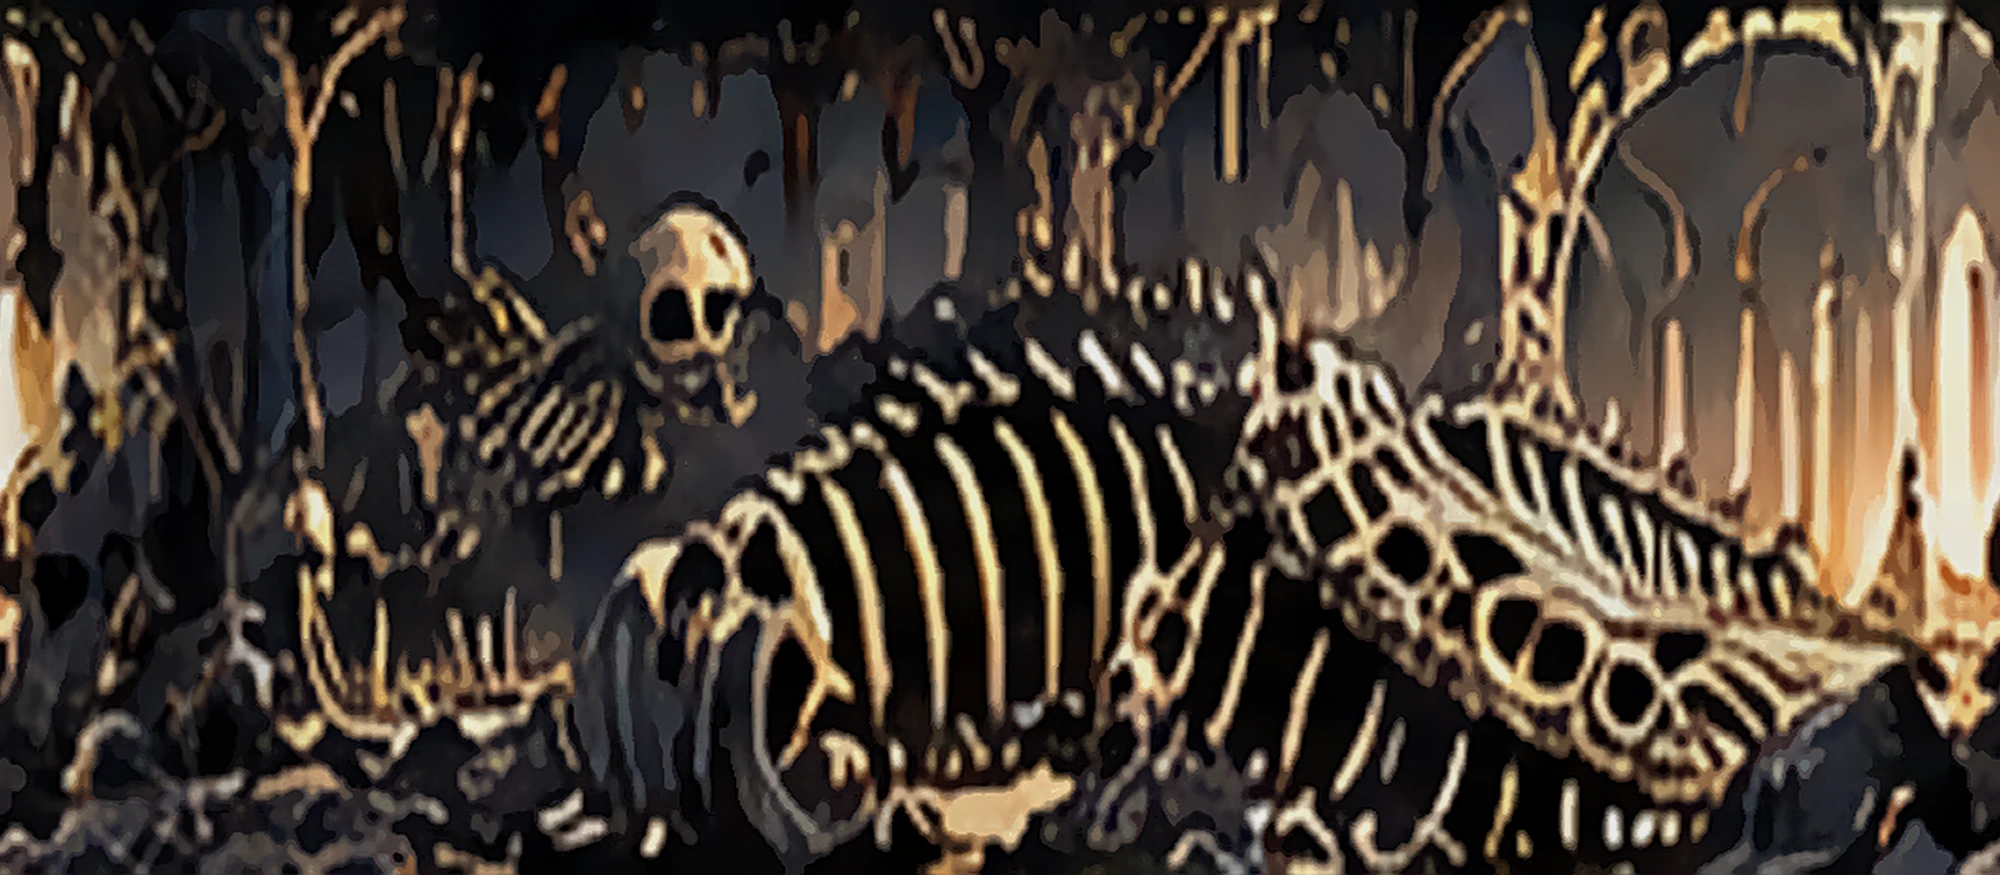
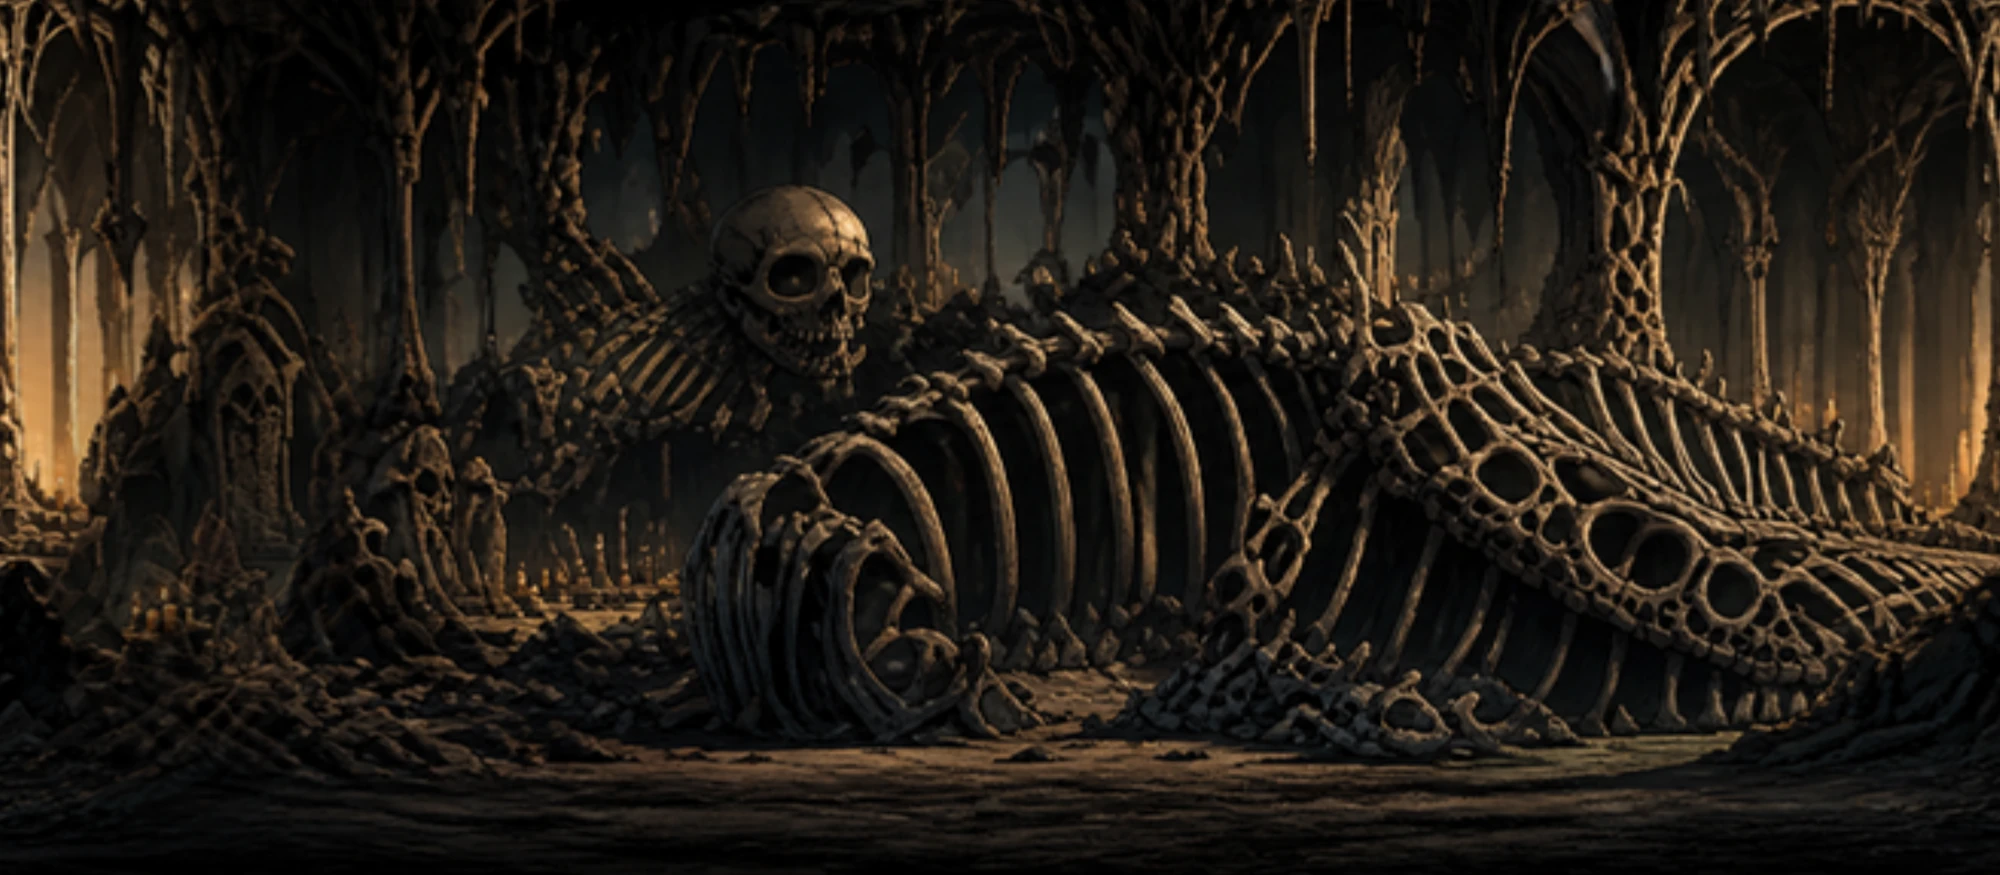
Detailed painted backdrops for 13 areas; painted floors for the village; painted floor and prop system

diff --git a/duskwell/js/art_painted_floors.js b/duskwell/js/art_painted_floors.js
@@ -1,0 +1,111 @@
+'use strict';
+// Painted floors: for every area listed in FLOOR_ART (js/floors_meta.js, made by tools/paint/floors.py) the rock of the rooms is
+// laid from a seamless painted texture of that area (art/floors/<theme>_fill.webp) and every walkable top, underside and one-way
+// ledge from its painted edge strip (art/floors/<theme>_top.webp), so the ground is painted in the same hand and palette as the
+// backdrop behind it. Until the pictures load (or for an area without them) the previous hook of the area draws the rock.
+const PaintedFloors = (() => {
+  const T = TILE, INK = '#030508';
+  const FILL_P = 256;                       // logical px covered by one copy of the fill texture
+  const TOP_H = 34;                         // logical px height of the painted top edge
+  const stats = { renders: 0, tops: 0, unders: 0, ledges: 0, theme: '' };
+  const meta = typeof FLOOR_ART !== 'undefined' ? FLOOR_ART : {};
+  const imgs = {};
+  const load = (t, k) => {
+    const key = t + '_' + k;
+    if (!imgs[key]) { const im = new Image(); im.onload = () => { if (typeof G !== 'undefined') G.tileCanvas = null; }; im.src = 'art/floors/' + key + '.webp'; imgs[key] = im; }
+    return imgs[key];
+  };
+  const ok = im => !!im && im.complete && im.naturalWidth > 0;
+  const has = t => !!meta[t] && ok(load(t, 'fill')) && ok(load(t, 'top'));
+
+  // a run of the painted edge from x0 to x1, its surface line at y; flip: hung upside down under an overhang
+  function edge(g, t, x0, x1, y, h, flip, alpha) {
+    const im = load(t, 'top'), m = meta[t], k = h / im.naturalHeight, P = im.naturalWidth * k;   // P: logical px of one copy
+    const top = y - m.surf * k;                                    // the strip's own surface sits on the line
+    g.save(); g.beginPath(); g.rect(x0 - 3, flip ? y - h * 0.15 : top - 2, x1 - x0 + 6, h * 1.2); g.clip();
+    if (alpha != null) g.globalAlpha *= alpha;
+    let x = Math.floor((x0 - 3) / P) * P;
+    for (; x < x1 + 3; x += P) {
+      if (flip) { g.save(); g.translate(0, 2 * y); g.scale(1, -1); g.drawImage(im, x, top, P + 0.5, h); g.restore(); }
+      else g.drawImage(im, x, top, P + 0.5, h);
+    }
+    g.restore();
+  }
+  // the rock of a room
+  function solid(g, L, th, isS, seed) {
+    const t = L.def.theme, im = load(t, 'fill'), k = im.naturalWidth / FILL_P;
+    stats.renders++; stats.theme = t; stats.tops = stats.unders = stats.ledges = 0;
+    g.imageSmoothingEnabled = true; g.imageSmoothingQuality = 'high';
+    for (let y = 0; y < L.h; y++) for (let x = 0; x < L.w; x++) {
+      if (L.get(x, y) !== T_SOLID) continue;
+      const px = x * T, py = y * T, sx = (px % FILL_P) * k, sy = (py % FILL_P) * k;
+      g.drawImage(im, sx, sy, T * k, T * k, px - 0.25, py - 0.25, T + 0.5, T + 0.5);
+      let air = 0;
+      for (let j = -2; j <= 2; j++) for (let i = -2; i <= 2; i++) if (!isS(x + i, y + j)) air++;
+      const a = 0.45 * (1 - clamp(air / 10, 0, 1));                  // deep rock lies darker, the rock at an edge keeps its colour
+      if (a > 0.01) { g.fillStyle = 'rgba(2,3,10,' + a.toFixed(3) + ')'; g.fillRect(px, py, T, T); }
+    }
+    // sides: an ink edge with a thin light line of the area inside it
+    const hi = meta[t].hi;
+    for (let y = 0; y < L.h; y++) for (let x = 0; x < L.w; x++) {
+      if (L.get(x, y) !== T_SOLID) continue;
+      const px = x * T, py = y * T, eT = !isS(x, y - 1), eL = !isS(x - 1, y), eR = !isS(x + 1, y), y0 = py + (eT ? 8 : 0);
+      for (const [on, ex, dir] of [[eL, px, 1], [eR, px + T, -1]]) {
+        if (!on) continue;
+        g.fillStyle = INK; g.fillRect(dir > 0 ? ex - 2.5 : ex - 1.5, y0, 4, py + T - y0);
+        g.fillStyle = hi; g.globalAlpha = 0.3; g.fillRect(dir > 0 ? ex + 1.5 : ex - 3.1, y0, 1.6, py + T - y0); g.globalAlpha = 1;
+      }
+    }
+    // undersides: the painted edge hung upside down, darker
+    for (let y = 0; y < L.h; y++) for (let x = 0; x < L.w; x++) {
+      if (L.get(x, y) !== T_SOLID || isS(x, y + 1)) continue;
+      let x1 = x; while (x1 + 1 < L.w && L.get(x1 + 1, y) === T_SOLID && !isS(x1 + 1, y + 1)) x1++;
+      const yb = (y + 1) * T;
+      edge(g, t, x * T, (x1 + 1) * T, yb, TOP_H * 0.8, true, 0.95);
+      g.fillStyle = 'rgba(0,0,0,0.35)'; g.fillRect(x * T, yb - 8, (x1 - x + 1) * T, 8);
+      stats.unders++; x = x1;
+    }
+    // tops: the painted edge along every free-standing floor
+    for (let y = 0; y < L.h; y++) for (let x = 0; x < L.w; x++) {
+      if (L.get(x, y) !== T_SOLID || isS(x, y - 1)) continue;
+      let x1 = x; while (x1 + 1 < L.w && L.get(x1 + 1, y) === T_SOLID && !isS(x1 + 1, y - 1)) x1++;
+      edge(g, t, x * T, (x1 + 1) * T, y * T + 3, TOP_H, false);
+      stats.tops++; x = x1;
+    }
+    // slippery ice keeps its glaze
+    for (let y = 0; y < L.h; y++) for (let x = 0; x < L.w; x++) if (L.get(x, y) === T_SOLID && L.isIce && L.isIce(x, y)) {
+      g.fillStyle = 'rgba(190,235,255,0.35)'; g.fillRect(x * T, y * T, T, T);
+    }
+    return true;
+  }
+  // one-way ledges: a slab of the rock under a run of the painted edge
+  function plats(g, L) {
+    const t = L.def.theme, im = load(t, 'fill'), k = im.naturalWidth / FILL_P;
+    for (let y = 0; y < L.h; y++) for (let x = 0; x < L.w; x++) {
+      if (L.get(x, y) !== T_ONEWAY) continue;
+      let x1 = x; while (x1 + 1 < L.w && L.get(x1 + 1, y) === T_ONEWAY) x1++;
+      const x0p = x * T, x1p = (x1 + 1) * T, py = y * T;
+      g.save(); g.beginPath(); g.roundRect(x0p - 2, py + 2, x1p - x0p + 4, 12, 4); g.clip();
+      for (let px = x0p - 2; px < x1p + 2; px += T) g.drawImage(im, (((px % FILL_P) + FILL_P) % FILL_P) * k, ((py % FILL_P) + FILL_P) % FILL_P * k, T * k, 12 * k, px, py + 2, T + 0.5, 12);
+      g.fillStyle = 'rgba(0,0,0,0.3)'; g.fillRect(x0p - 2, py + 9, x1p - x0p + 4, 5);
+      g.restore();
+      g.strokeStyle = INK; g.lineWidth = 2.2; g.beginPath(); g.roundRect(x0p - 2, py + 2, x1p - x0p + 4, 12, 4); g.stroke();
+      edge(g, t, x0p - 2, x1p + 2, py + 3, TOP_H * 0.62, false);
+      stats.ledges++; x = x1;
+    }
+    return true;
+  }
+  // wrap the hook of every area that has painted floors: the painted rock once loaded, the old drawing until then;
+  // its scenery (props, hangings) stays as it was
+  for (const t of Object.keys(meta)) {
+    const prev = Art.tileHooks[t];
+    load(t, 'fill'); load(t, 'top');
+    Art.tileHooks[t] = {
+      ready: () => has(t) || !!(prev && prev.ready()),
+      solid: (g, L, th, isS, seed) => has(t) ? solid(g, L, th, isS, seed) : !!(prev && prev.solid(g, L, th, isS, seed)),
+      plats: (g, L, th) => has(t) ? plats(g, L, th) : !!(prev && prev.plats(g, L, th)),
+      scenery: prev && prev.scenery ? prev.scenery : undefined,
+    };
+  }
+  return { stats, has, themes: Object.keys(meta) };
+})();

diff --git a/duskwell/js/art_props_hd.js b/duskwell/js/art_props_hd.js
@@ -1,0 +1,63 @@
+'use strict';
+// Painted props in place of the old shapes drawn in code: the village houses, street lamps and well, the stone pillars of the
+// crossroads and of the palace, and the cogs and chimneys of the foundry (art/props_hd/<name>.webp, cut by tools/paint/floors.py,
+// listed in PROPS_HD). An object whose picture has not loaded (or does not exist) is drawn as before.
+(() => {
+  const list = typeof PROPS_HD !== 'undefined' ? PROPS_HD : {};
+  const imgs = {};
+  for (const n of Object.keys(list)) { const im = new Image(); im.src = 'art/props_hd/' + n + '.webp'; imgs[n] = im; }
+  const ok = n => !!imgs[n] && imgs[n].complete && imgs[n].naturalWidth > 0;
+  // draw picture n with its bottom centre at (cx, by), h px tall (or w px wide when h is null)
+  function put(g, n, cx, by, w, h, alpha) {
+    const im = imgs[n], k = h != null ? h / im.naturalHeight : w / im.naturalWidth, dw = im.naturalWidth * k, dh = im.naturalHeight * k;
+    g.save(); if (alpha != null) g.globalAlpha *= alpha; g.imageSmoothingEnabled = true; g.imageSmoothingQuality = 'high';
+    g.drawImage(im, cx - dw / 2, by - dh, dw, dh); g.restore();
+    return [dw, dh];
+  }
+  const oldDecor = Art.drawDecor;
+  Art.drawDecor = function (g, d, t, th) {
+    const px = d.x * TILE, py = d.y * TILE + TILE;
+    if (d.type === 'house') {
+      const n = Math.floor(d.x) % 2 === 0 ? 'prop_house_a' : 'prop_house_b', alt = n === 'prop_house_a' ? 'prop_house_b' : 'prop_house_a';
+      const use = ok(n) ? n : ok(alt) ? alt : null;
+      if (use) {
+        const w = d.w * TILE;
+        put(g, use, px + w / 2, py + 2, w + 30, null);
+        if (Math.floor(d.x) % 2 === 0) bloom(g, px + w / 2, py - d.h * TILE * 0.55, 80, '#ffb050', 0.12);
+        return;
+      }
+    } else if (d.type === 'lamp' && ok('prop_lamp')) {
+      const fl = 0.85 + 0.15 * Math.sin(t * 7 + d.x);
+      bloom(g, px + 16, py - 104, 130 * fl, th.glow, 0.32);
+      put(g, 'prop_lamp', px + 16, py + 2, null, 128);
+      return;
+    } else if (d.type === 'well' && ok('prop_well')) {
+      const w = d.w * TILE;
+      put(g, 'prop_well', px + w / 2, py + 4, w + 64, null);
+      const gr = g.createLinearGradient(0, py, 0, py + 140); gr.addColorStop(0, 'rgba(140,200,255,0.25)'); gr.addColorStop(1, 'rgba(140,200,255,0)');
+      g.fillStyle = gr; g.fillRect(px, py, w, 140);
+      return;
+    } else if (d.type === 'pillar') {
+      const n = th && th.name === 'throne' ? 'prop_pillar_throne' : 'prop_pillar_cave';
+      if (ok(n)) { put(g, n, px + 16, py + 4, null, d.h * TILE + 8, 0.92); return; }
+    }
+    oldDecor(g, d, t, th);
+  };
+  const oldGear = Art.drawGear;
+  Art.drawGear = function (g, d, t, th) {
+    if (!ok('prop_gear')) return oldGear(g, d, t, th);
+    const x = d.x * TILE + 16, y = d.y * TILE + 16, r = (d.r || 3) * TILE + 12, dir = d.dir || 1, im = imgs.prop_gear;
+    g.save(); g.translate(x, y); g.rotate(t * 0.25 * dir * (90 / r)); g.globalAlpha *= d.a || 0.75;
+    g.imageSmoothingEnabled = true; g.drawImage(im, -r, -r, 2 * r, 2 * r);
+    g.restore();
+  };
+  const oldChimney = Art.drawChimney;
+  Art.drawChimney = function (g, d, t, th) {
+    if (!ok('prop_chimney')) return oldChimney(g, d, t, th);
+    const x = d.x * TILE, base = d.y * TILE + TILE, h = (d.h || 8) * TILE;
+    const [w] = put(g, 'prop_chimney', x + 23, base + 4, null, h + 8, 0.95);
+    const k = 0.6 + 0.4 * Math.sin(t * 2 + d.x);
+    bloom(g, x + 23, base - h + 10, 60 * k + w * 0.2, th.glow, 0.2);
+  };
+  Art.propsHd = { ok, names: Object.keys(list) };
+})();

diff --git a/duskwell/index.html b/duskwell/index.html
@@ -135,10 +135,13 @@ canvas{display:block;background:var(--stage);border-radius:4px;box-shadow:0 0 40
 <script src="js/world_end.js"></script>
 <script src="js/world_hard.js"></script>
 <script src="js/world_paintings.js"></script>
+<script src="js/sky_meta.js"></script>
 <script src="js/art_world.js"></script>
 <script src="js/art_detail.js"></script>
 <script src="js/art_sprites.js"></script>
 <script src="js/art_mech.js"></script>
+<script src="js/props_hd_meta.js"></script>
+<script src="js/art_props_hd.js"></script>
 <script src="js/sprite_meta.js"></script>
 <script src="js/lumen.js"></script>
 <script src="js/pixel.js"></script>
@@ -190,6 +193,8 @@ canvas{display:block;background:var(--stage);border-radius:4px;box-shadow:0 0 40
 <script src="js/art_world_hd.js"></script>
 <script src="js/moss_meta.js"></script>
 <script src="js/art_moss.js"></script>
+<script src="js/floors_meta.js"></script>
+<script src="js/art_painted_floors.js"></script>
 <script src="js/setpiece_meta.js"></script>
 <script src="js/art_setpieces.js"></script>
 <script src="js/hero_frames_meta.js"></script>

diff --git a/duskwell/js/art_world.js b/duskwell/js/art_world.js
@@ -445,6 +445,8 @@ const CONCEPT_ALPHA = { default: [1, 1, 1, 1], town: [1, 1, 1, 1], townb: [1, 0,
 const PAINTING_BG = ['lunar_moon', 'lunar_hall', 'lunar_dome', 'mirror_city', 'mirror_hall'];
 for (const k of PAINTING_BG) CONCEPT_ALPHA[k] = [1, 0, 0, 0];
 for (const k of ['cave', 'moss', 'spore', 'aqueduct', 'crystal', 'webbed', 'foundry', 'throne', 'frost', 'ember', 'storm', 'mirror', 'bone', 'lunar']) CONCEPT_ALPHA[k] = CONCEPT_ALPHA.default;
+// areas repainted as one detailed picture (tools/paint/floors.py): the picture alone, without the old cut-out layers
+if (typeof SKY_HD !== 'undefined') for (const k of SKY_HD) CONCEPT_ALPHA[k] = [1, 0, 0, 0];
 // backdrop sets that belong to no theme of their own: the afternoon village behind the roads out of the town
 const EXTRA_BG = { townb: true };
 for (const k of PAINTING_BG) EXTRA_BG[k] = true;

diff --git a/duskwell/js/floors_meta.js b/duskwell/js/floors_meta.js
@@ -1,0 +1,4 @@
+'use strict';
+// made by tools/paint/floors.py: the areas whose floors are painted (art/floors/<theme>_fill.webp, _top.webp);
+// surf: row of the top strip (of its 160) where one walks, hi: a light colour of the rock
+const FLOOR_ART = {"town": {"hi": "#665646", "surf": 7}};

diff --git a/duskwell/js/sky_meta.js b/duskwell/js/sky_meta.js
@@ -1,0 +1,3 @@
+'use strict';
+// made by tools/paint/floors.py: areas whose backdrop is one detailed painting (art/bg/<theme>/sky.webp)
+const SKY_HD = ["aqueduct", "bone", "crystal", "ember", "foundry", "frost", "lunar", "mirror", "moss", "spore", "storm", "throne", "webbed"];

diff --git a/duskwell/js/props_hd_meta.js b/duskwell/js/props_hd_meta.js
@@ -1,0 +1,3 @@
+'use strict';
+// made by tools/paint/floors.py: painted props in art/props_hd/<name>.webp, [width, height]
+const PROPS_HD = {};

diff --git a/duskwell/tools/paint/floors.py b/duskwell/tools/paint/floors.py
@@ -1,0 +1,125 @@
+#!/usr/bin/env python3
+"""Turns the painted area pictures in art/source/areas_hd/ into game files:
+  <theme>_sky.png  -> art/bg/<theme>/sky.webp (2000x875, seamless left to right) and art/areas/<theme>.webp (960x400)
+  <theme>_fill.png -> art/floors/<theme>_fill.webp (512x512, seamless both ways)
+  <theme>_top.png  -> art/floors/<theme>_top.webp (the edge strip cut out of its grey ground, seamless left to right)
+and writes js/floors_meta.js: FLOOR_ART[theme] = {surf: row of the strip's surface, hi: light colour of the rock} and
+js/sky_meta.js: SKY_HD = [themes whose backdrop is one painting];
+  prop_<name>.png  -> art/props_hd/prop_<name>.webp (cut out of its grey ground) listed in js/props_hd_meta.js."""
+import glob, json, os
+import numpy as np
+from PIL import Image, ImageFilter
+HERE = os.path.dirname(os.path.abspath(__file__)); ROOT = os.path.join(HERE, '..', '..')
+SRC = os.path.join(ROOT, 'art', 'source', 'areas_hd')
+
+
+def seam_x(a, frac=0.18):
+    """make an image (H, W, C float) seamless left to right: cross-fade its two ends over frac of the width"""
+    h, w = a.shape[:2]; n = int(w * frac)
+    t = np.linspace(0, 1, n)[None, :, None]
+    left, right = a[:, :n], a[:, w - n:]
+    out = a[:, :w - n].copy()
+    out[:, :n] = right * (1 - t) + left * t
+    return out
+
+
+def seam_xy(a):
+    """seamless both ways: blend with a copy shifted by half, weighted toward the centre of each"""
+    h, w = a.shape[:2]
+    b = np.roll(np.roll(a, h // 2, 0), w // 2, 1)
+    yy = np.abs(np.linspace(-1, 1, h))[:, None]; xx = np.abs(np.linspace(-1, 1, w))[None, :]
+    wa = np.clip(1.0 - np.maximum(yy, xx), 0, 1) ** 0.7       # 1 in the middle, 0 at the edges
+    wb = np.roll(np.roll(wa, h // 2, 0), w // 2, 1)
+    m = (wa / (wa + wb + 1e-6))[..., None]
+    return a * m + b * (1 - m)
+
+
+def sky(theme, path):
+    im = Image.open(path).convert('RGB'); w, h = im.size
+    ch = int(round(w / (2000 / 875)))
+    y0 = max(0, (h - ch) // 2); im = im.crop((0, y0, w, y0 + ch))
+    a = seam_x(np.asarray(im, np.float32))
+    out = Image.fromarray(np.clip(a, 0, 255).astype(np.uint8)).resize((2000, 875), Image.LANCZOS)
+    d = os.path.join(ROOT, 'art', 'bg', theme); os.makedirs(d, exist_ok=True)
+    out.save(os.path.join(d, 'sky.webp'), quality=90, method=6)
+    out.resize((960, 420), Image.LANCZOS).crop((0, 10, 960, 410)).save(os.path.join(ROOT, 'art', 'areas', theme + '.webp'), quality=88, method=6)
+
+
+def fill(theme, path):
+    im = Image.open(path).convert('RGB'); w, h = im.size
+    m = int(min(w, h) * 0.06); im = im.crop((m, m, w - m, h - m))         # the very edge of a painting is often softer
+    a = seam_xy(np.asarray(im, np.float32))
+    out = Image.fromarray(np.clip(a, 0, 255).astype(np.uint8)).resize((512, 512), Image.LANCZOS)
+    out.save(os.path.join(ROOT, 'art', 'floors', theme + '_fill.webp'), quality=90, method=6)
+    px = np.asarray(out, np.float32).reshape(-1, 3); lum = px @ [0.3, 0.59, 0.11]
+    hi = px[lum >= np.percentile(lum, 92)].mean(0)
+    return '#%02x%02x%02x' % tuple(int(v) for v in hi)
+
+
+def top(theme, path):
+    im = Image.open(path).convert('RGB'); a = np.asarray(im, np.float32)
+    # the grey ground: the colour of the border of the picture
+    border = np.concatenate([a[:8].reshape(-1, 3), a[-8:].reshape(-1, 3)]); grey = np.median(border, 0)
+    d = np.sqrt(((a - grey) ** 2).sum(-1))
+    sat = a.max(-1) - a.min(-1)
+    alpha = np.clip((d - 14) / 26, 0, 1)
+    alpha[(d < 30) & (sat < 10)] = 0
+    al = Image.fromarray((alpha * 255).astype(np.uint8)).filter(ImageFilter.MedianFilter(5)).filter(ImageFilter.GaussianBlur(0.8))
+    alpha = np.asarray(al, np.float32) / 255
+    rows = np.where(alpha.mean(1) > 0.35)[0]
+    # the band of the strip: the longest run of full rows
+    runs, s = [], rows[0]
+    for i in range(1, len(rows)):
+        if rows[i] != rows[i - 1] + 1: runs.append((s, rows[i - 1])); s = rows[i]
+    runs.append((s, rows[-1])); r0, r1 = max(runs, key=lambda r: r[1] - r[0])
+    lo = np.where(alpha.mean(1) > 0.04)[0]
+    t0 = max(lo[lo <= r0].min() if (lo <= r0).any() else r0, r0 - (r1 - r0)); t1 = min(lo[lo >= r1].max(), r1 + (r1 - r0))
+    w = a.shape[1]; c0, c1 = int(w * 0.04), int(w * 0.96)                    # leave out the ragged ends
+    rgba = np.dstack([a, alpha * 255])[t0:t1 + 1, c0:c1]
+    rgba = seam_x(rgba)
+    surf = int(np.argmax(rgba[..., 3].mean(1) > 0.5 * 255))                   # first row that is mostly solid: the walking line
+    out = Image.fromarray(np.clip(rgba, 0, 255).astype(np.uint8), 'RGBA')
+    k = 160 / out.height; out = out.resize((max(1, int(out.width * k)), 160), Image.LANCZOS)
+    out.save(os.path.join(ROOT, 'art', 'floors', theme + '_top.webp'), quality=90, method=6, lossless=False)
+    return int(surf * k)
+
+
+def prop(name, path):
+    """an object painted on the grey ground: cut out, cropped to its outline"""
+    a = np.asarray(Image.open(path).convert('RGB'), np.float32)
+    border = np.concatenate([a[:8].reshape(-1, 3), a[-8:].reshape(-1, 3), a[:, :8].reshape(-1, 3), a[:, -8:].reshape(-1, 3)]); grey = np.median(border, 0)
+    d = np.sqrt(((a - grey) ** 2).sum(-1)); sat = a.max(-1) - a.min(-1)
+    alpha = np.clip((d - 14) / 26, 0, 1); alpha[(d < 30) & (sat < 10)] = 0
+    al = Image.fromarray((alpha * 255).astype(np.uint8)).filter(ImageFilter.MedianFilter(5)).filter(ImageFilter.GaussianBlur(0.8))
+    alpha = np.asarray(al, np.float32) / 255
+    ys, xs = np.where(alpha > 0.5); y0, y1, x0, x1 = ys.min(), ys.max() + 1, xs.min(), xs.max() + 1
+    out = Image.fromarray(np.dstack([a, alpha * 255]).astype(np.uint8), 'RGBA').crop((x0, y0, x1, y1))
+    k = min(1.0, 900 / max(out.size)); out = out.resize((max(1, int(out.width * k)), max(1, int(out.height * k))), Image.LANCZOS)
+    os.makedirs(os.path.join(ROOT, 'art', 'props_hd'), exist_ok=True)
+    out.save(os.path.join(ROOT, 'art', 'props_hd', name + '.webp'), quality=90, method=6)
+    return list(out.size)
+
+
+def main():
+    os.makedirs(os.path.join(ROOT, 'art', 'floors'), exist_ok=True)
+    meta_path = os.path.join(ROOT, 'js', 'floors_meta.js')
+    floors, skies = {}, []
+    for p in sorted(glob.glob(os.path.join(SRC, '*_sky.png'))):
+        t = os.path.basename(p)[:-8]; sky(t, p); skies.append(t); print('sky ', t)
+    for p in sorted(glob.glob(os.path.join(SRC, '*_fill.png'))):
+        t = os.path.basename(p)[:-9]; tp = os.path.join(SRC, t + '_top.png')
+        if not os.path.exists(tp): continue
+        hi = fill(t, p); surf = top(t, tp); floors[t] = {'surf': surf, 'hi': hi}; print('floor', t, floors[t])
+    props = {}
+    for p in sorted(glob.glob(os.path.join(SRC, 'prop_*.png'))):
+        n = os.path.basename(p)[:-4]; props[n] = prop(n, p); print('prop ', n, props[n])
+    open(os.path.join(ROOT, 'js', 'props_hd_meta.js'), 'w').write("'use strict';\n// made by tools/paint/floors.py: painted props in art/props_hd/<name>.webp, [width, height]\nconst PROPS_HD = " + json.dumps(props, sort_keys=True) + ";\n")
+    open(meta_path, 'w').write("'use strict';\n// made by tools/paint/floors.py: the areas whose floors are painted (art/floors/<theme>_fill.webp, _top.webp);\n"
+                               "// surf: row of the top strip (of its 160) where one walks, hi: a light colour of the rock\n"
+                               "const FLOOR_ART = " + json.dumps(floors, sort_keys=True) + ";\n")
+    open(os.path.join(ROOT, 'js', 'sky_meta.js'), 'w').write("'use strict';\n// made by tools/paint/floors.py: areas whose backdrop is one detailed painting (art/bg/<theme>/sky.webp)\n"
+                                                             "const SKY_HD = " + json.dumps(skies) + ";\n")
+
+
+if __name__ == '__main__':
+    main()
